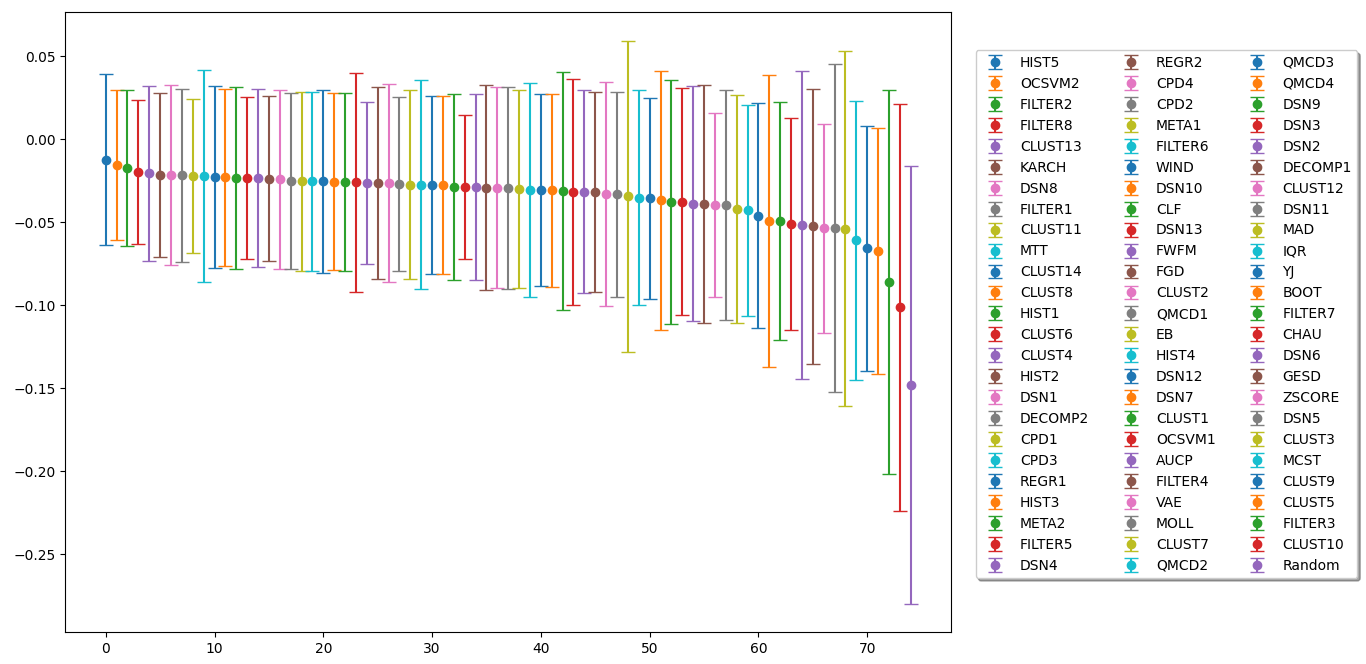
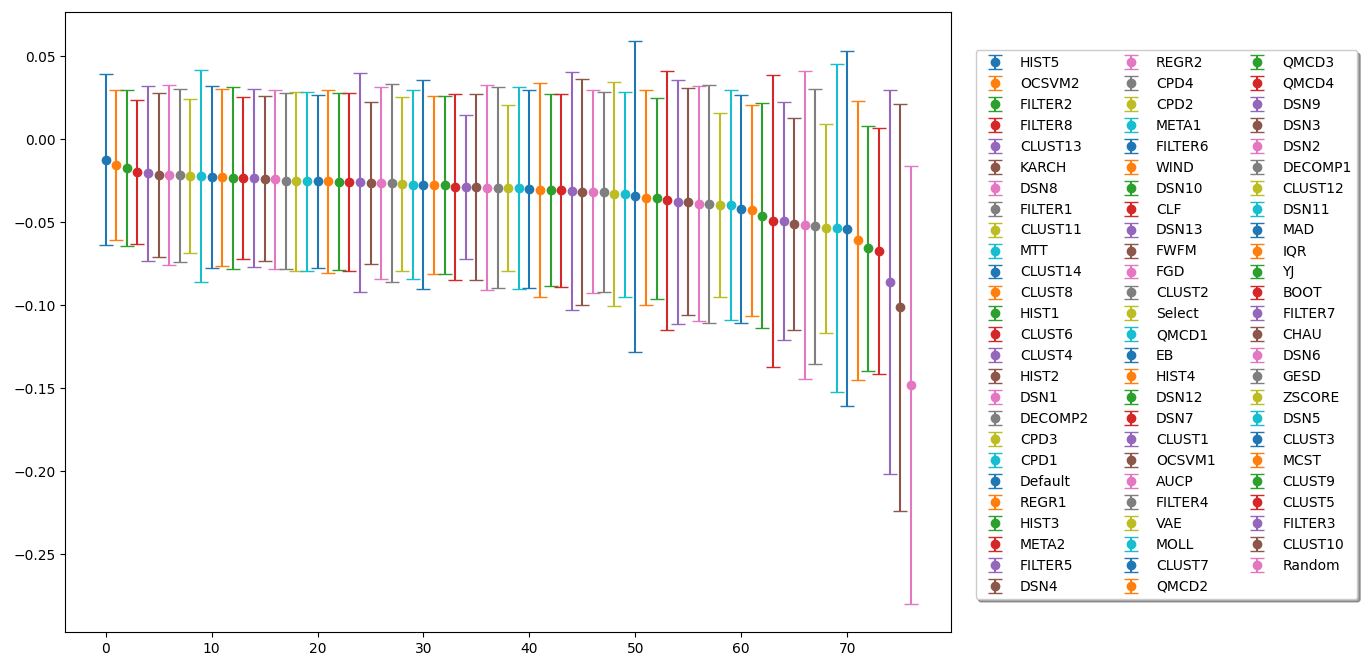
Updated Benchmarks

diff --git a/docs/benchmark.rst b/docs/benchmark.rst
@@ -76,14 +76,17 @@ true contamination level for the selected outlier detection method.
 However, the uncertainty for many goes beyond zero indicating that in
 some instances the thresholder performed better than true contamination
 level for a particuar dataset and outlier detection method. Along with
-the thresholders, a random contamination prediction was tested as well.
-This was done by setting :math:`MMC_{norm} = 1` and represents what may
-be expected when a random contamination level is selected without prior
-knowledge.
+the thresholders, the default contamination level set for each outlier 
+detection method (`Default`) was tested as well as randomly picking a
+contamination level between 1% - 20% (`Select`). Finally, a baseline 
+was also calculated if outliers were selected at random (`Random`).
+This was done by setting :math:`MMC_{norm} = 1`.
 
-Overall, all the thresholders performed better than selecting a random
-contamination level. The `FILTER` thresholder performed best while the
-`META` thresholder provided the smallest uncertainty about its mean.
+Overall, a significant amount of thresholders performed better than 
+selecting a random contamination level. The `FILTER` thresholder 
+performed best while the `META` thresholder provided the smallest 
+uncertainty about its mean, and the most robust (best least accurate 
+prediction) was `DSN`.
 
 .. figure:: figs/Benchmark1.png
    :alt: Benchmark defaults

diff --git a/docs/index.rst b/docs/index.rst
@@ -81,9 +81,10 @@ complex mathematical methods that involve graph theory and topology.
  Benchmarking
 **************
 
-Benchmarking has been done on all the thresholders and it was found that
-the `FILTER` thresholder performed best while the `META` thresholder was
-the most robust in terms of datasets and outlier detection methods.
+Benchmarking  has been done on all the thresholders and it was
+found that the `FILTER` thresholder performed best while the `META` 
+thresholder provided the smallest uncertainty about its mean, and the 
+most robust (best least accurate prediction) was `DSN`.
 
 ----
 

diff --git a/README.rst b/README.rst
@@ -228,9 +228,9 @@ Unsupervised Anomaly Detection <https://arxiv.org/abs/2210.10487>`_
 is made available below
 
 Additional benchmarking has been done on all the thresholders and it was
-found that the `FILTER` thresholder performed best while the `META`
-thresholder was the most robust in terms of datasets and outlier
-detection methods.
+found that the `FILTER` thresholder performed best while the `META` 
+thresholder provided the smallest uncertainty about its mean, and the most 
+robust (best least accurate prediction) was `DSN`.
 
 ----
 
